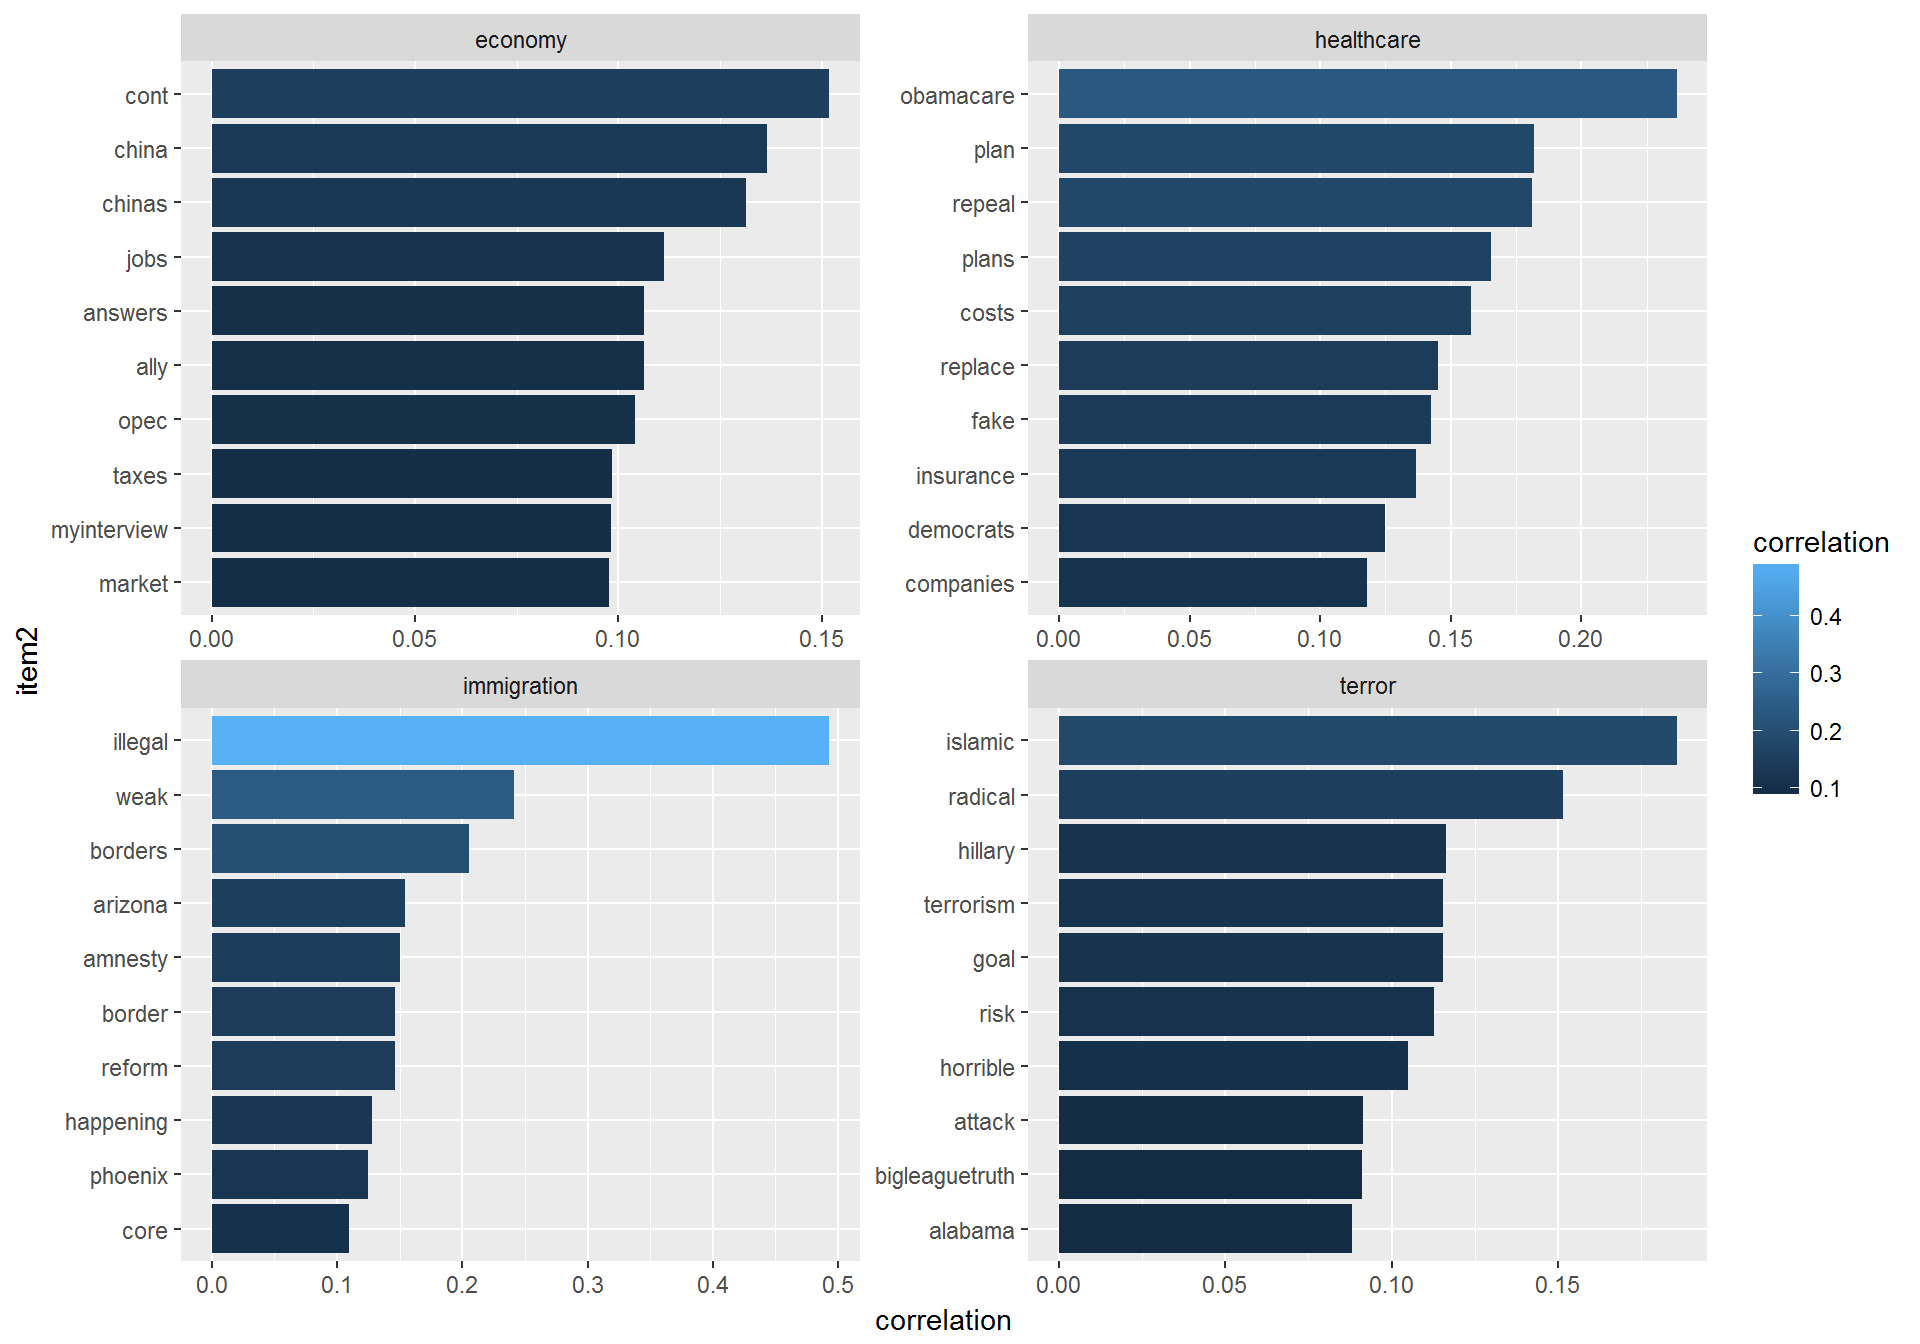
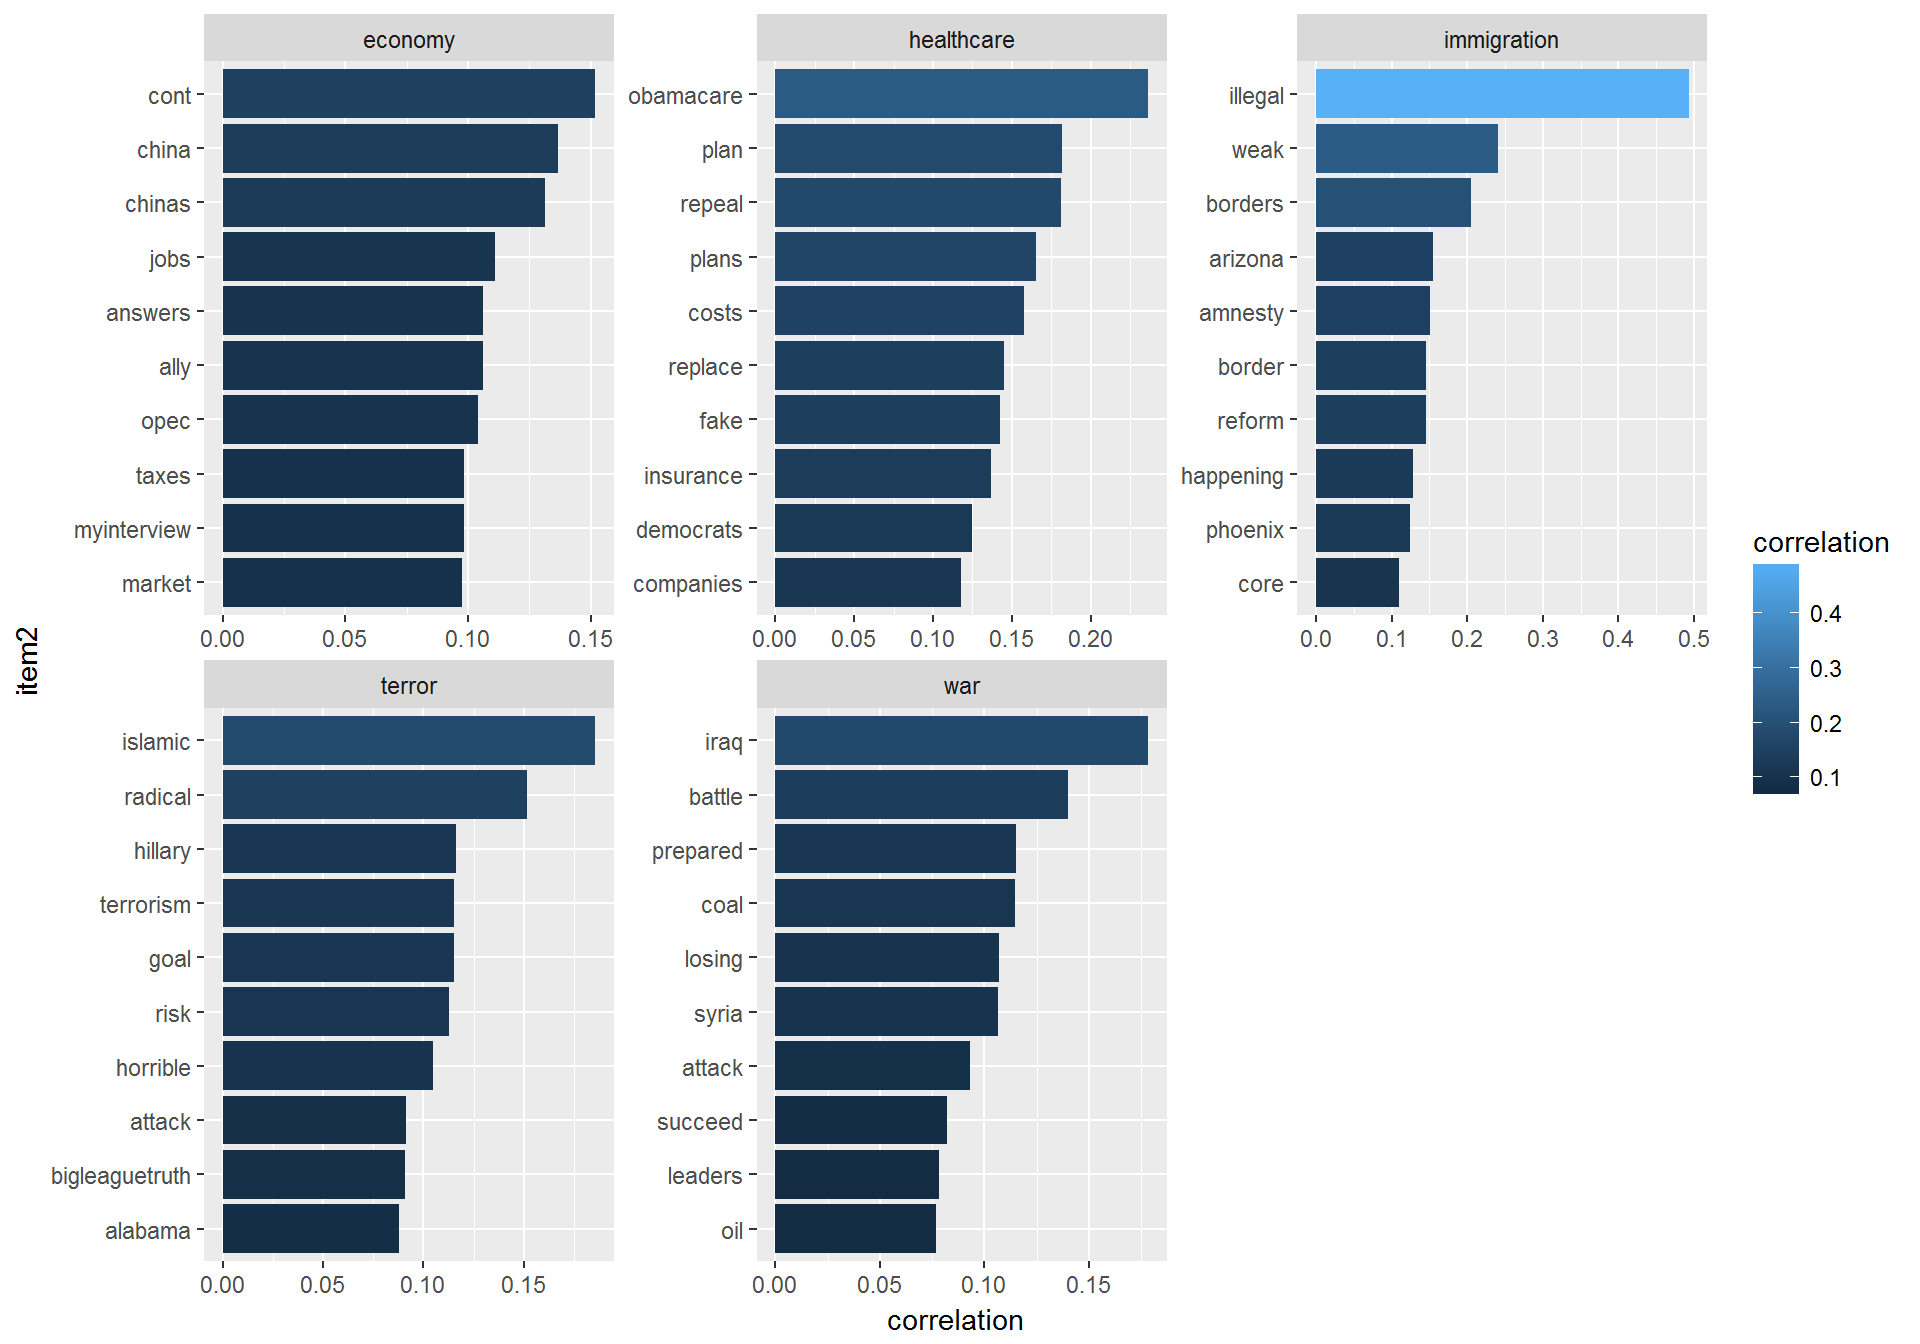
updated

diff --git a/index.html b/index.html
@@ -201,20 +201,6 @@ $(document).ready(function () {
 <div id="relationships-between-words" class="section level3">
 <h3>Relationships Between Words</h3>
 <p>TextTextTextTextTextTextTextText</p>
-<pre><code>## # A tibble: 177,497 × 2
-##           bigram     n
-##            &lt;chr&gt; &lt;int&gt;
-## 1         of the  1424
-## 2      thank you  1396
-## 3        will be  1333
-## 4         in the  1116
-## 5           is a   947
-## 6   donald trump   897
-## 7        a great   839
-## 8        for the   711
-## 9          to be   702
-## 10 for president   691
-## # ... with 177,487 more rows</code></pre>
 <p>Text Text Text <img src="index_files/figure-html/2015-12-13_sentiment_graph-1.png" width="960" /> TEXT ABOUT GRAPH ABOVE</p>
 </div>
 <div id="section-title" class="section level3">
@@ -223,6 +209,7 @@ $(document).ready(function () {
 <p>Religious groups <img src="index_files/figure-html/pairwise_correlation_graph-1.png" width="960" /> graph description</p>
 <p>Politicians <img src="index_files/figure-html/pairwise_correlation_two_graph-1.png" width="960" /> graph description</p>
 <p>Policies <img src="index_files/figure-html/pairwise_correlation_three_graph-1.png" width="960" /> graph description</p>
+<p>Policies <img src="index_files/figure-html/pairwise_correlation_four_graph-1.png" width="960" /> graph description</p>
 </div>
 <div id="section-title-1" class="section level3">
 <h3>Section Title</h3>
